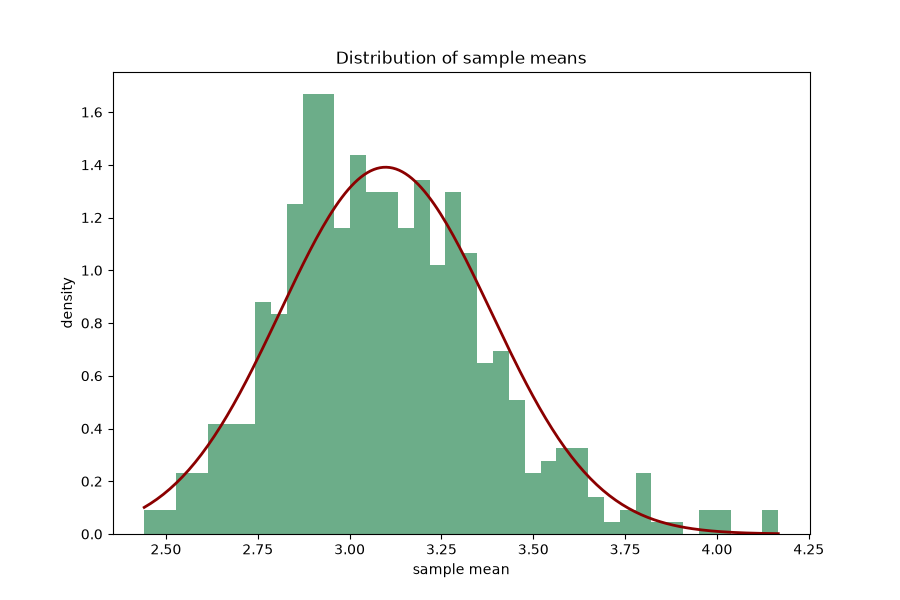
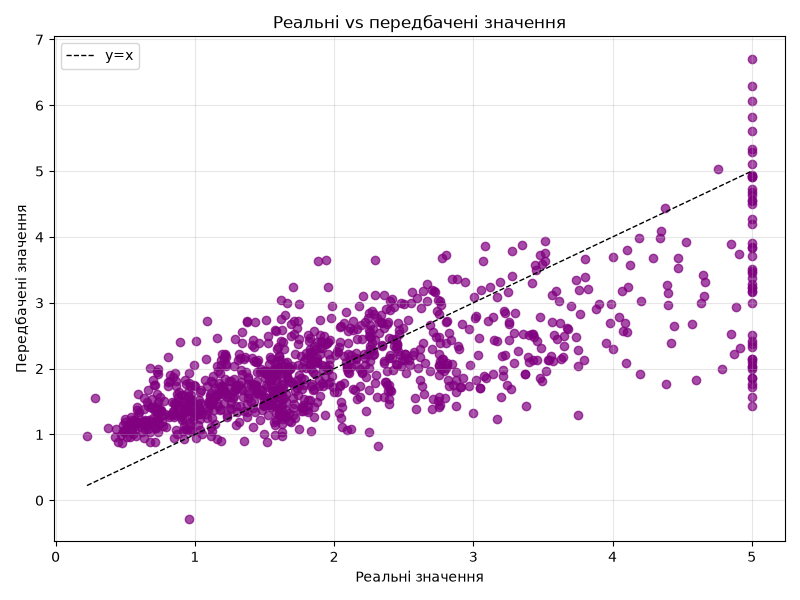
BasedRegrationHomework

diff --git a/PythonAI/BasedRegrationHomework.py b/PythonAI/BasedRegrationHomework.py
@@ -1,0 +1,160 @@
+import math
+
+import matplotlib
+matplotlib.use("Agg")
+import matplotlib.pyplot as plt
+import numpy as np
+from sklearn.datasets import fetch_california_housing
+from sklearn.linear_model import LinearRegression
+from sklearn.metrics import mean_absolute_error, mean_squared_error, r2_score
+from sklearn.model_selection import train_test_split
+
+
+def print_table(headers, rows):
+    widths = [len(str(header)) for header in headers]
+    for row in rows:
+        for index, value in enumerate(row):
+            widths[index] = max(widths[index], len(str(value)))
+
+    border = "-+-".join("-" * width for width in widths)
+    header_line = " | ".join(str(header).ljust(widths[index]) for index, header in enumerate(headers))
+    print(header_line)
+    print(border)
+    for row in rows:
+        print(" | ".join(str(value).ljust(widths[index]) for index, value in enumerate(row)))
+
+
+def fit_linear_regression(X, y):
+    X_train, X_test, y_train, y_test = train_test_split(X, y, test_size=0.2, random_state=42)
+    model = LinearRegression()
+    model.fit(X_train, y_train)
+    predictions = model.predict(X_test)
+    score = r2_score(y_test, predictions)
+    return X_train, X_test, y_train, y_test, model, predictions, score
+
+
+def task1():
+    housing = fetch_california_housing()
+    X = housing.data[:, [0]]
+    y = housing.target
+    _, _, _, _, _, _, score = fit_linear_regression(X, y)
+
+    print("Завдання 1")
+    print_table(["Модель", "Ознаки", "R^2"], [["LinearRegression", "MedInc", f"{score:.4f}"]])
+
+    housing = fetch_california_housing()
+    X = housing.data[:, [0]]
+    y = housing.target
+    X_train, X_test, y_train, y_test, model, _, _ = fit_linear_regression(X, y)
+
+    x_min = float(X.min())
+    x_max = float(X.max())
+    line_x = [x_min, x_max]
+    slope = float(model.coef_[0])
+    line_y = [model.intercept_ + slope * x_min, model.intercept_ + slope * x_max]
+
+    plt.figure(figsize=(10, 6))
+    plt.scatter(X_train, y_train, color="blue", alpha=0.5, label="Навчальні дані")
+    plt.scatter(X_test, y_test, color="green", alpha=0.5, label="Тестові дані")
+    plt.plot(line_x, line_y, color="red", linewidth=2, label="Лінія регресії")
+    plt.title("Лінійна регресія для MedInc")
+    plt.xlabel("MedInc")
+    plt.ylabel("Median House Value")
+    plt.legend()
+    plt.grid(True, alpha=0.3)
+    plt.tight_layout()
+    plt.savefig("task1.png")
+    plt.close()
+
+
+def task2():
+    housing = fetch_california_housing()
+    rng = np.random.RandomState(42)
+    selected = rng.choice(len(housing.target), size=5000, replace=False)
+    X_sample = housing.data[selected]
+    y_sample = housing.target[selected]
+
+    print("\nЗавдання 2")
+    rows = []
+    feature_sets = {
+        "MedInc": [0],
+        "MedInc, AveRooms": [0, 2],
+    }
+
+    for name, indices in feature_sets.items():
+        X = X_sample[:, indices]
+        _, _, _, _, _, _, score = fit_linear_regression(X, y_sample)
+        rows.append(["LinearRegression", name, f"{score:.4f}"])
+
+    print_table(["Модель", "Ознаки", "R^2"], rows)
+
+
+def task3():
+    housing = fetch_california_housing()
+    rng = np.random.RandomState(42)
+    selected = rng.choice(len(housing.target), size=5000, replace=False)
+    X = housing.data[selected][:, [0, 2]]
+    y = housing.target[selected]
+
+    X_train, X_test, y_train, y_test = train_test_split(X, y, test_size=0.2, random_state=42)
+    model = LinearRegression()
+    model.fit(X_train, y_train)
+    predictions = model.predict(X_test)
+    mae = mean_absolute_error(y_test, predictions)
+    mse = mean_squared_error(y_test, predictions)
+    rmse = math.sqrt(mse)
+    score = r2_score(y_test, predictions)
+
+    print("\nЗавдання 3")
+    print_table(["Метрика", "Значення"], [
+        ["MAE", f"{mae:.4f}"],
+        ["MSE", f"{mse:.4f}"],
+        ["RMSE", f"{rmse:.4f}"],
+        ["R^2", f"{score:.4f}"],
+    ])
+
+    plt.figure(figsize=(8, 6))
+    plt.scatter(y_test, predictions, color="purple", alpha=0.7)
+    plt.plot([y_test.min(), y_test.max()], [y_test.min(), y_test.max()], color="black", linestyle="--", linewidth=1, label="y=x")
+    plt.title("Реальні vs передбачені значення")
+    plt.xlabel("Реальні значення")
+    plt.ylabel("Передбачені значення")
+    plt.grid(True, alpha=0.3)
+    plt.legend()
+    plt.tight_layout()
+    plt.savefig("task3.png")
+    plt.close()
+
+
+def task4():
+    housing = fetch_california_housing()
+    X = housing.data[:, [0, 2]]
+    y = housing.target
+    X_train, X_test, y_train, y_test = train_test_split(X, y, test_size=0.2, random_state=42)
+    model = LinearRegression()
+    model.fit(X_train, y_train)
+    predictions = model.predict(X_test)
+
+    print("\nЗавдання 4")
+    plt.figure(figsize=(8, 6))
+    plt.scatter(y_test, predictions, color="purple", alpha=0.7)
+    plt.plot([y_test.min(), y_test.max()], [y_test.min(), y_test.max()], color="black", linestyle="--", linewidth=1, label="y=x")
+    plt.title("Реальні vs передбачені значення")
+    plt.xlabel("Реальне значення")
+    plt.ylabel("Передбачене значення")
+    plt.grid(True, alpha=0.3)
+    plt.legend()
+    plt.tight_layout()
+    plt.savefig("task4.png")
+    plt.close()
+
+
+def main():
+    task1()
+    task2()
+    task3()
+    task4()
+
+
+if __name__ == "__main__":
+    main()
